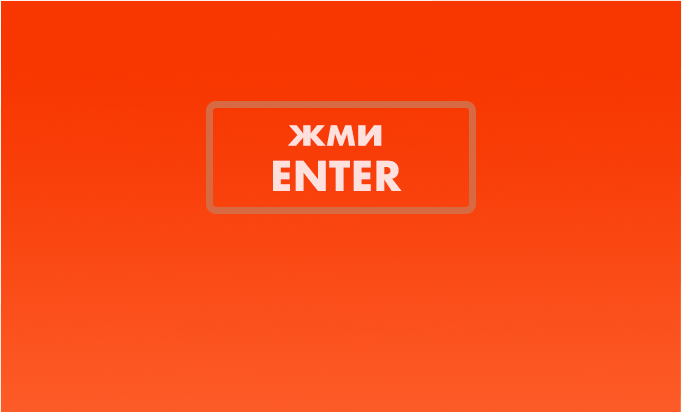
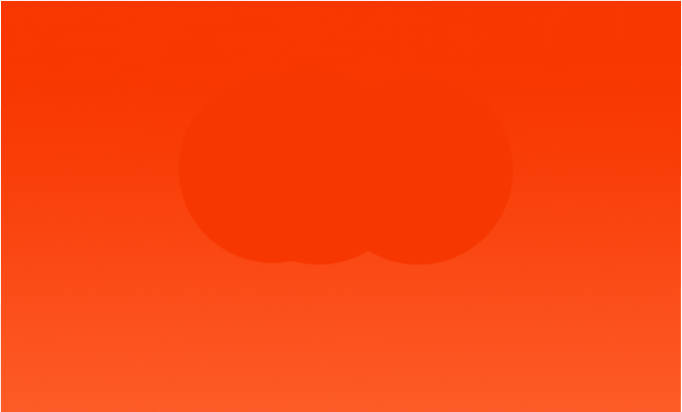
added main charecter

Changed region(s): [[0.2771, 0.233, 0.7082, 0.5243], [0.4003, 0.2913, 0.585, 0.466]]

diff --git a/src/App.vue b/src/App.vue
@@ -1,11 +1,23 @@
 <template>
   <div id="app">
 
+    <!-- <button @click="musicOn()">sound</button> -->
+
     <img src="./assets/img/1.png">
     <img src="./assets/img/2.png">
     <img src="./assets/img/3.png">
     <img src="./assets/img/4.png">
     <img src="./assets/img/5.png">
+
+    <div id="gop-wrapper">
+        <div id="gop">
+
+        </div>
+        <div id="gop-speech">
+
+        </div>
+
+    </div>
 
     <div id="wrapper">
 
@@ -40,25 +52,25 @@
 </template>
 
 <script>
-import {useSound} from '@vueuse/sound'
-import soundSprite from './assets/audio/sound-sprite.mp3'
+// import {useSound} from '@vueuse/sound'
+// import soundSprite from './assets/audio/sound-sprite.mp3'
 
 export default {
-    setup() {
-    const {play, stop} = useSound(soundSprite, {
-      sprite: {
-        start: [2750, 1250],
-        spin: [5050, 1150],
-        end: [6300, 400],
-        guitar: [7500, 10000],
-      },
-    })
+  //   setup() {
+  //   const {play, stop} = useSound(soundSprite, {
+  //     sprite: {
+  //       start: [2750, 1250],
+  //       spin: [5050, 1150],
+  //       end: [6300, 400],
+  //       guitar: [7300, 131900],
+  //     },
+  //   })
 
-    return {
-      play,
-      stop,
-    }
-  },
+  //   return {
+  //     play,
+  //     stop,
+  //   }
+  // },
   data() {
     return {
       bottom: 20,
@@ -74,6 +86,7 @@ export default {
       trans2:0,
       trans3:0,
       spin: false,
+      // music: false,
       arr: ['zero', 'adcb3c81', 'c8ccef56', '1c9b6cf1', '9b45790e', '03cd1c9c']
     }
   },
@@ -84,6 +97,20 @@ export default {
 
   methods: {
 
+    // musicOn() {
+
+    //   if (!this.music) {
+    //     this.music = true;
+    //     this.play({id:'guitar'});
+    //     setInterval(()=>{
+    //       this.play({id:'guitar'});
+    //     }, 131900)
+    //   } else {
+    //     this.stop();
+    //     this.music = false;
+    //   }
+    // },
+
     startSpin(event) {
 
       if (event.keyCode == 13 && !this.spin) {
@@ -92,7 +119,7 @@ export default {
         this.trans2 = 0;
         this.trans3 = 0;
         this.opacity = 1;
-        this.play({id:'start'});
+        // this.play({id:'start'});
         this.moveUp();
       }
 
@@ -100,7 +127,7 @@ export default {
 
     stopSpin(event) {
       if (event.keyCode == 13 && this.spin) {
-        this.play({id:'end'});
+        // this.play({id:'end'});
         this.spin = false;
         this.bottom = -400;
         this.trans1 = 0.5;
@@ -123,13 +150,13 @@ export default {
     moveUp() {
       let _this = this;
 
-      setInterval(()=>{
-        if (!_this.spin) {
-          _this.stop();
-        } else {
-          _this.play({id:'spin'});
-        }
-      },1150)
+      // setInterval(()=>{
+      //   if (!_this.spin) {
+      //     _this.stop();
+      //   } else {
+      //     _this.play({id:'spin'});
+      //   }
+      // },1150)
 
       setInterval(() => {
         if (!_this.spin) {
@@ -180,6 +207,9 @@ export default {
     margin: 0;
     padding: 0;
     background-color: rgb(97, 4, 4);
+    background-image: url(./assets/img/logo.png);
+    background-size: 10%;
+    background-repeat: space;
     overflow: hidden;
   }
   #app {
@@ -189,6 +219,32 @@ export default {
     background-image: url(./assets/img/main-bg.png);
     background-position: center;
     background-repeat: no-repeat;
+  }
+  #gop-wrapper {
+    position: absolute;
+    top: 50%;
+    left: 50%;
+    transform: translate(-50%, -50%);
+    background-color: aqua;
+    /* background-image: url(./assets/img/gop.png); */
+    /* background-position: center; */
+    /* background-repeat: no-repeat; */
+    /* background-size: 80%; */
+    z-index: 8768;
+  }
+  #gop {
+    position: absolute;
+    top: 50%;
+    left: 50%;
+    transform: translate(-800px, 37px);
+    width: 500px;
+    height: 550px;
+    background-image: url(./assets/img/gop.png);
+    background-position: center;
+    background-repeat: no-repeat;
+    background-size: 100%;
+
+
   }
   #wrapper {
     position: absolute;
